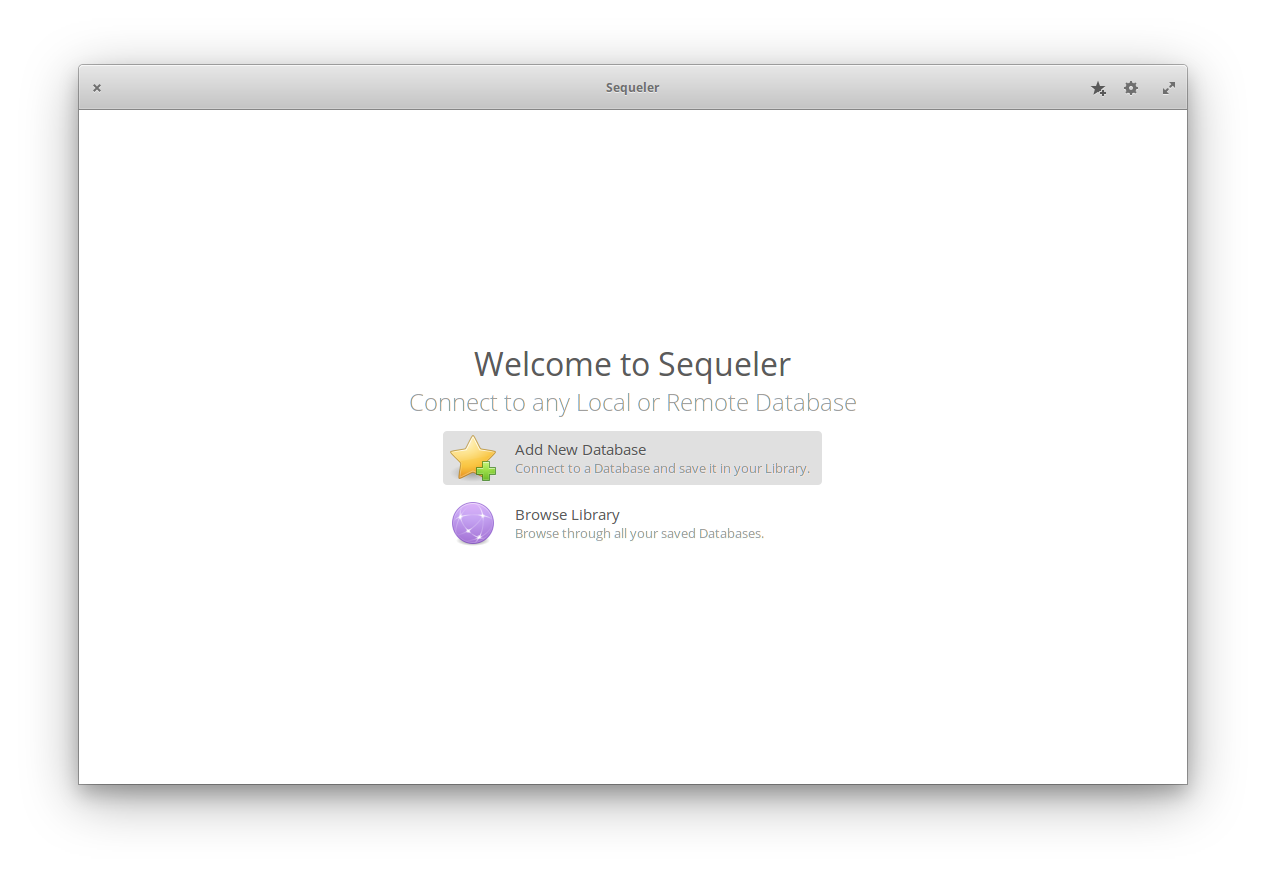
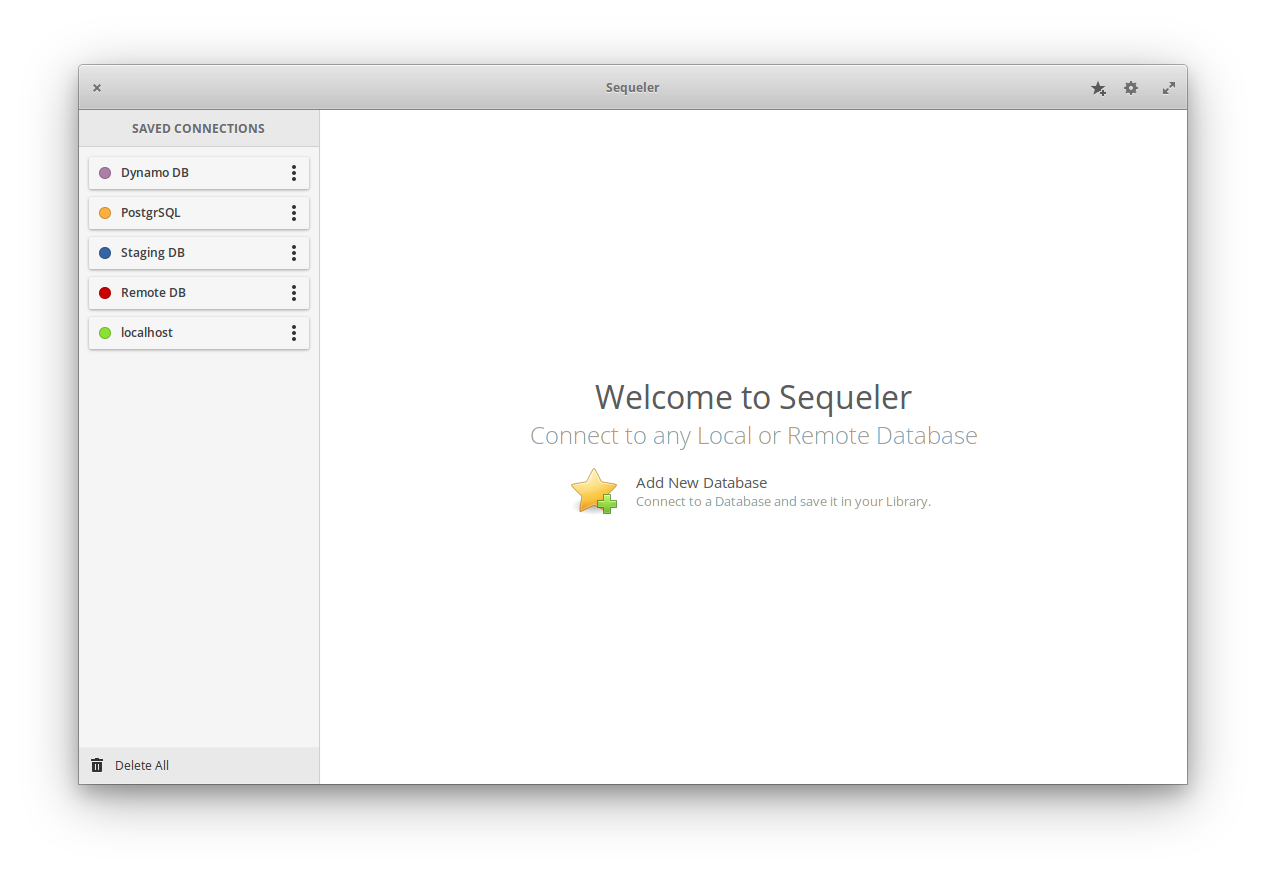
initial building of side panel for table ino

diff --git a/data/stylesheet.css b/data/stylesheet.css
@@ -26,11 +26,3 @@
     border-radius: 12px;
     box-shadow: inset 0px 0px 0px 1px rgba(0, 0, 0, 0.2);
 }
-
-GtkTreeView row:nth-child(even) {
-    background-color: rgba(0, 0, 0, 0.1);
-}
-
-GtkTreeView row:nth-child(odd) {
-    background-color: rgba(255, 255, 255, 0.1);
-}
